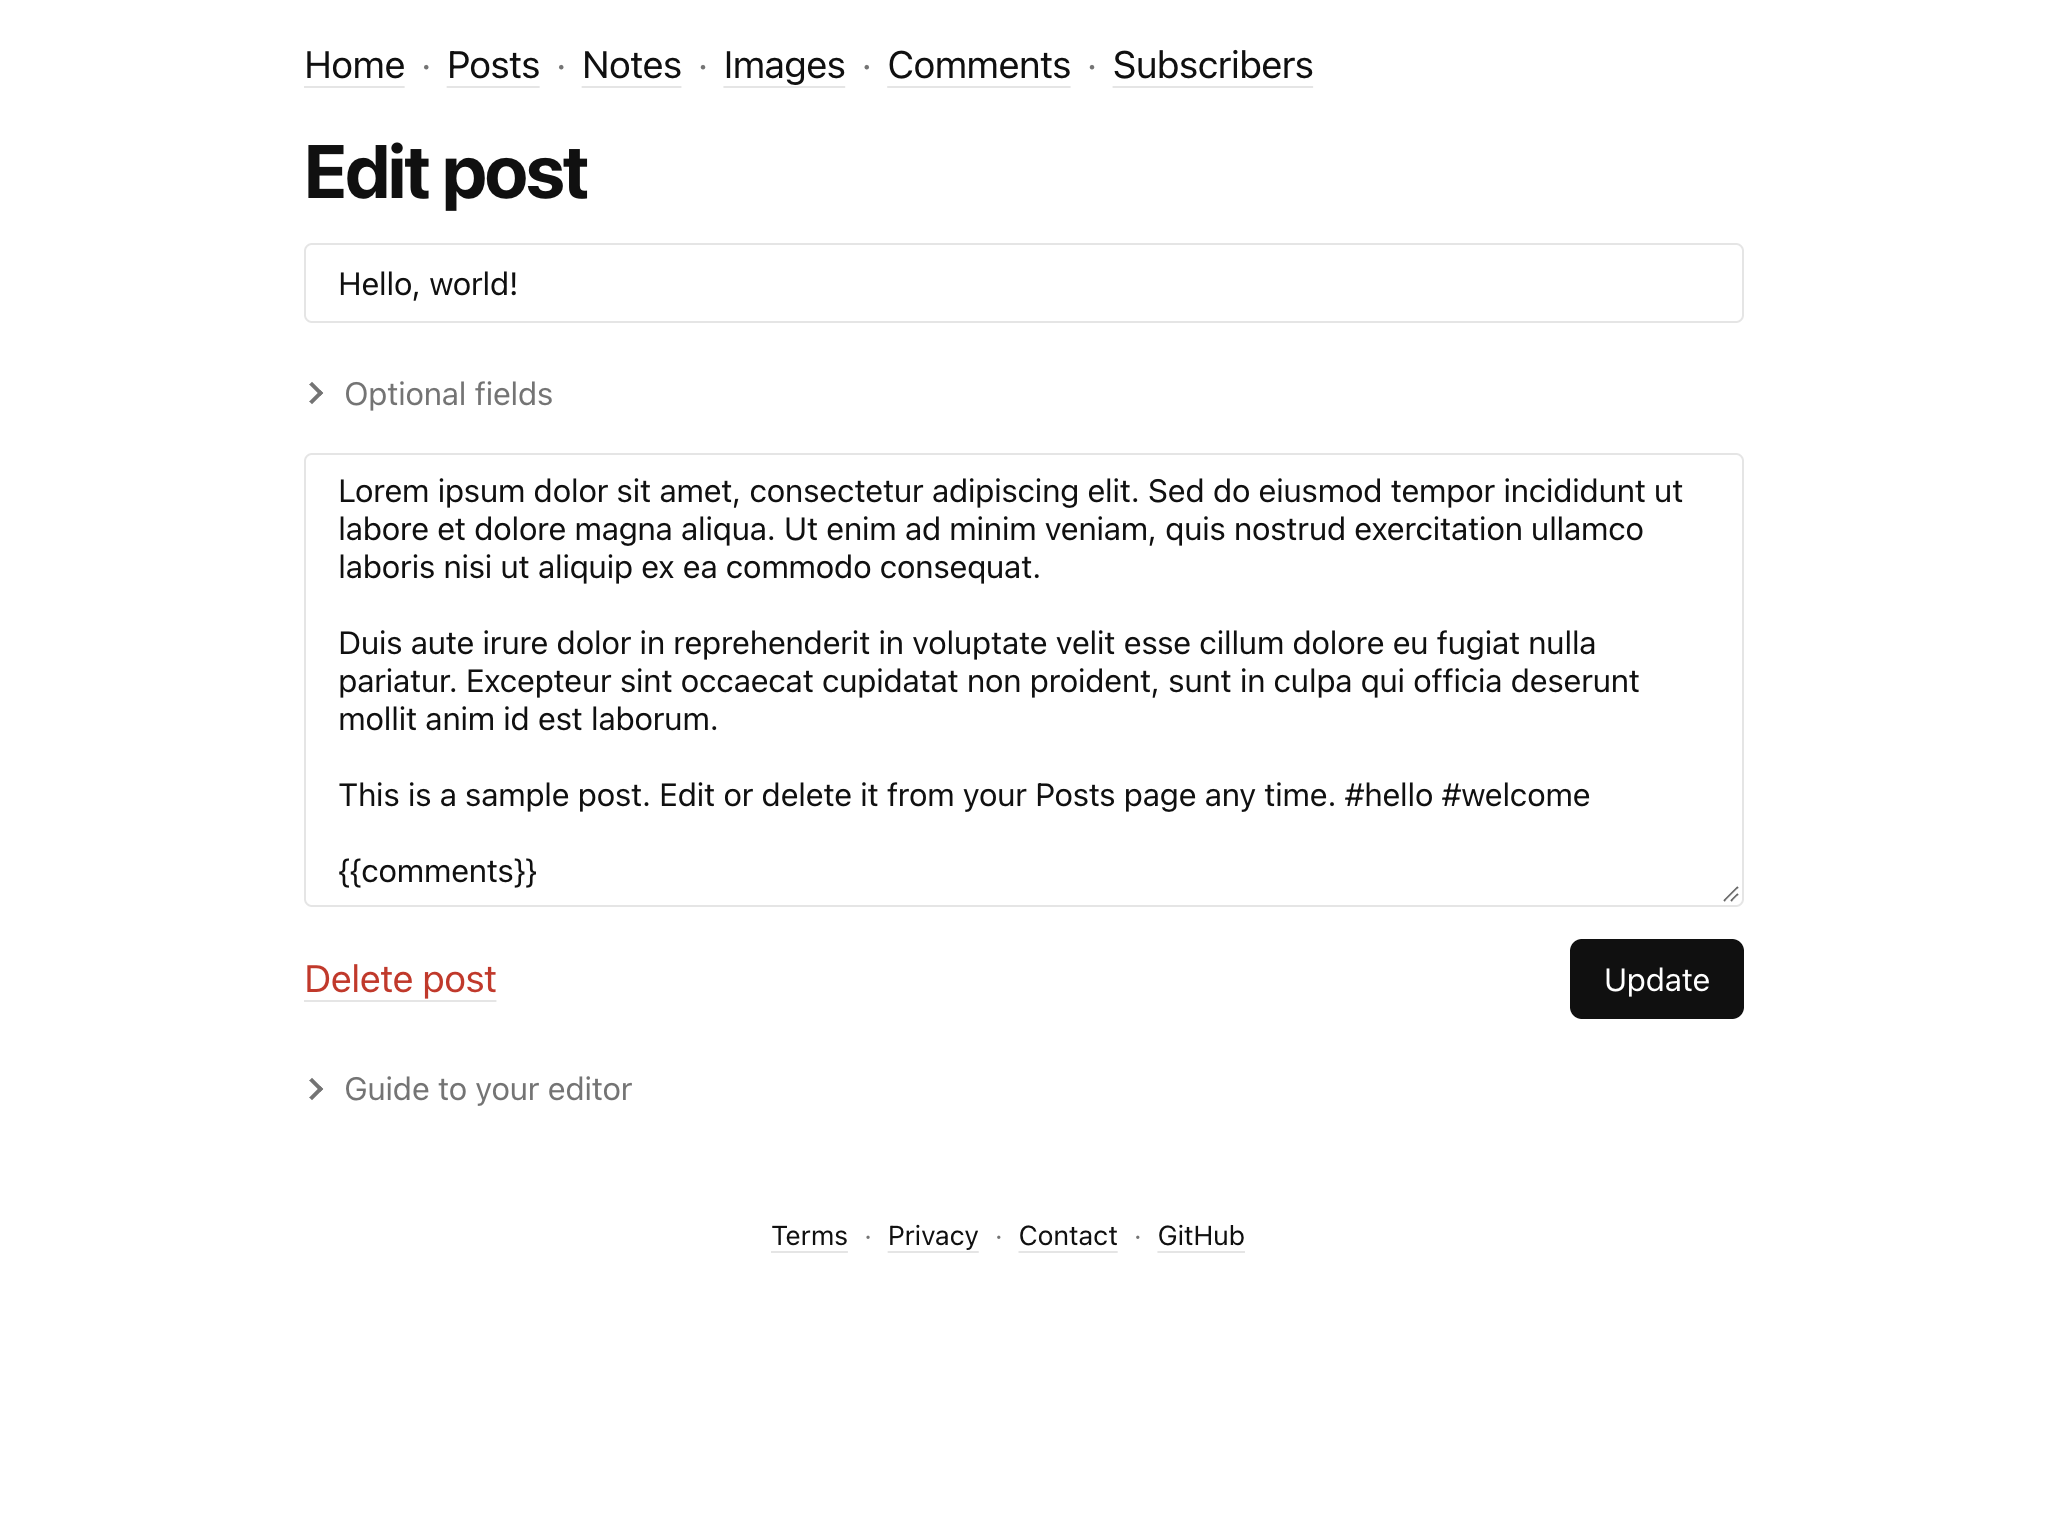
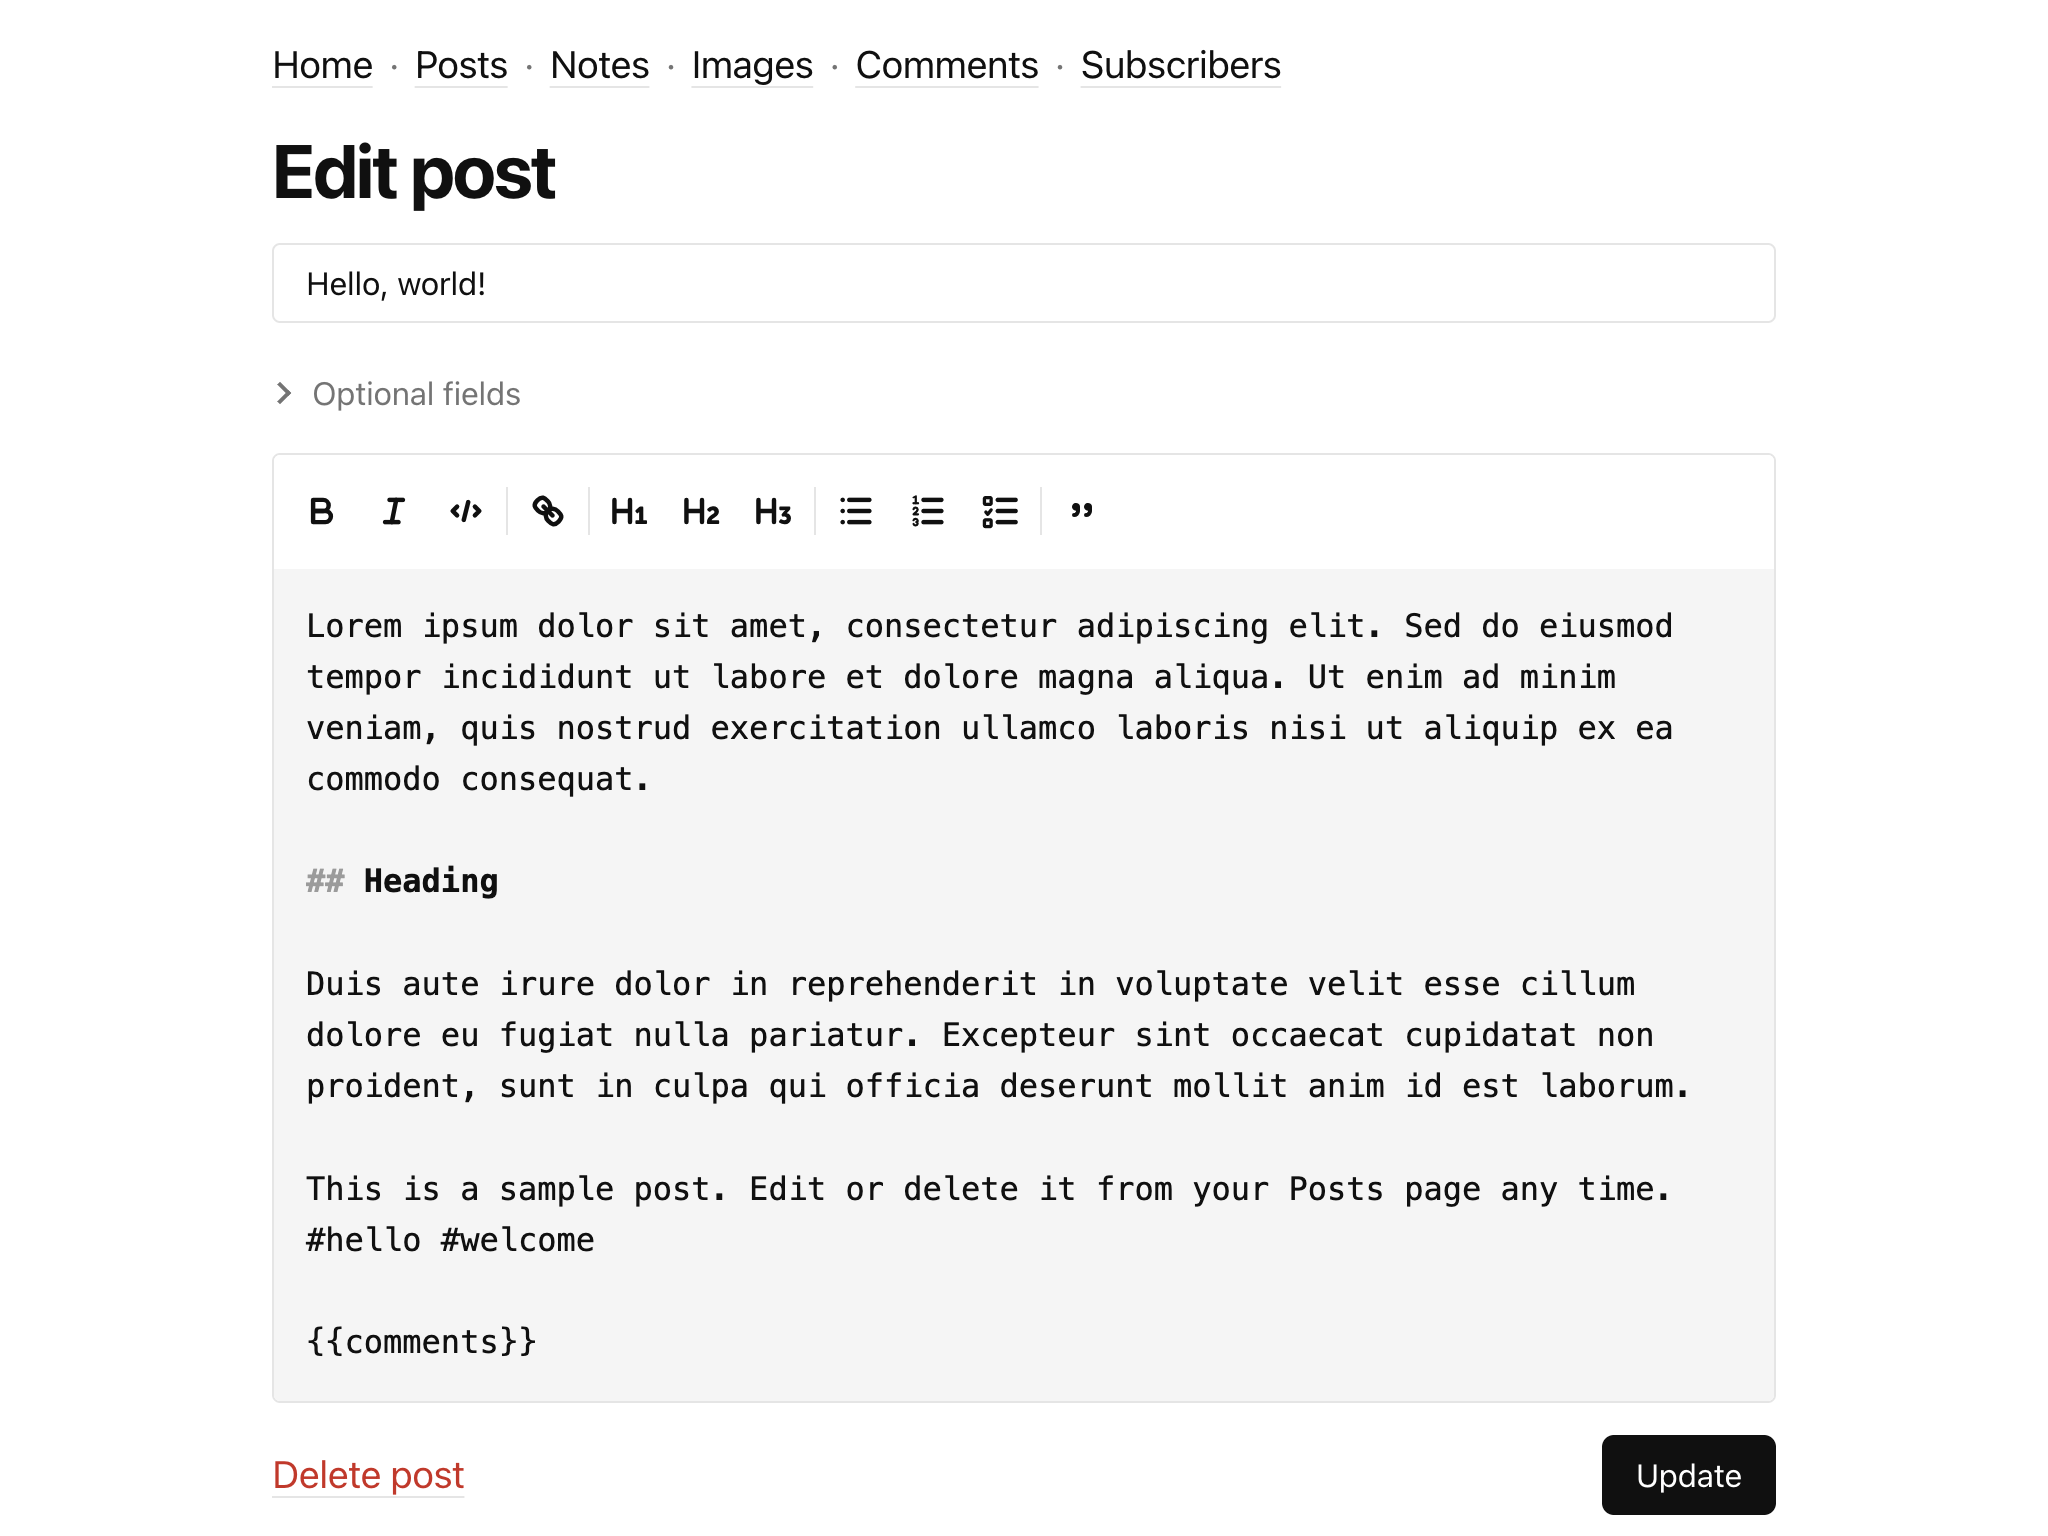
added markdown editor

diff --git a/assets/script.js b/assets/script.js
@@ -1,4 +1,4 @@
-/* global axios, Vue */
+/* global axios, Vue, OverType, defaultToolbarButtons */
 
 const defaultState = function () {
 	const params = new URLSearchParams(window.location.search);
@@ -31,7 +31,7 @@ function redirect(path, replace = false) {
 	if (replace) window.location.replace(path);
 	else window.location.href = path;
 }
-const App = Vue.createApp({
+const app = Vue.createApp({
 	data() {
 		return defaultState();
 	},
@@ -394,7 +394,63 @@ const App = Vue.createApp({
 				.finally(() => (this.isLoading = false));
 		},
 	},
-}).mount("#app");
+});
+
+// Markdown editor (overtype.dev) bound to a value. Emits an "overtype-change" event carrying the new markdown.
+app.directive("overtype", {
+	mounted(el, binding) {
+		const [editor] = new OverType(el, {
+			value: binding.value || "",
+			placeholder: el.dataset.placeholder || "",
+			toolbar: true,
+			// The default toolbar without the view-mode (eye) toggle, which confuses non-technical users.
+			toolbarButtons: defaultToolbarButtons.filter((button, i, all) => {
+				if (button.name === "viewMode") return false;
+				return !(button.name === "separator" && all[i + 1]?.name === "viewMode");
+			}),
+			autoResize: true,
+			minHeight: "7rem",
+			fontSize: "1rem",
+			theme: {
+				name: "veenew",
+				colors: {
+					bgPrimary: "var(--ot-background)",
+					bgSecondary: "var(--ot-shade)",
+					text: "var(--ot-text)",
+					h1: "var(--ot-text)",
+					h2: "var(--ot-text)",
+					h3: "var(--ot-text)",
+					strong: "var(--ot-text)",
+					em: "var(--ot-text)",
+					link: "var(--ot-text)",
+					code: "var(--ot-text)",
+					codeBg: "var(--ot-shade)",
+					blockquote: "var(--ot-muted)",
+					hr: "var(--ot-muted)",
+					syntaxMarker: "var(--ot-muted)",
+					cursor: "var(--ot-text)",
+					// The browser's own selection color, translucent so the styled text underneath stays visible.
+					selection: "color-mix(in srgb, Highlight 40%, transparent)",
+					toolbarBg: "var(--ot-background)",
+					toolbarIcon: "var(--ot-text)",
+					toolbarHover: "var(--ot-shade)",
+					toolbarActive: "var(--ot-grey)",
+					border: "var(--ot-grey)",
+				},
+			},
+			onChange: (value) => el.dispatchEvent(new CustomEvent("overtype-change", { detail: value })),
+		});
+		el._overtype = editor;
+	},
+	updated(el, binding) {
+		if (el._overtype && binding.value !== el._overtype.getValue()) el._overtype.setValue(binding.value || "");
+	},
+	unmounted(el) {
+		el._overtype?.destroy();
+	},
+});
+
+const App = app.mount("#app");
 
 (() => {
 	const csrfToken = document.cookie

diff --git a/server/utils/marked.js b/server/utils/marked.js
@@ -45,6 +45,17 @@ renderer.text = function (text) {
 	return result;
 };
 
+/**
+ * Renders task list checkboxes without the disabled attribute, which browsers grey out,
+ * so readers can tick them. The state is not saved.
+ * @param {boolean|object} checked - Checked state or marked token.
+ * @returns {string} Checkbox input markup.
+ */
+renderer.checkbox = function (checked) {
+	const isChecked = typeof checked === "object" && checked !== null ? checked.checked : checked;
+	return `<input type="checkbox" class="task-checkbox"${isChecked ? " checked" : ""}> `;
+};
+
 marked.setOptions({ renderer });
 
 module.exports = marked;

diff --git a/init.js b/init.js
@@ -27,9 +27,10 @@ app.locals.toScriptJson = toScriptJson;
 
 app.use(mw.securityHeaders);
 
-// Serve vue.js & axios to the browser
+// Serve vue.js, axios & overtype to the browser
 app.use(express.static(path.join(__dirname, "node_modules/axios/dist/")));
 app.use(express.static(path.join(__dirname, "node_modules/vue/dist/")));
+app.use(express.static(path.join(__dirname, "node_modules/overtype/dist/")));
 
 // A blog's uploaded favicon takes over /favicon.png on its own domain, ahead of the static default below.
 app.get("/favicon.png", serveFavicon);

diff --git a/assets/style.css b/assets/style.css
@@ -21,6 +21,19 @@
 #postbox textarea {
 	min-height: 7rem;
 }
+.editor {
+	--ot-background: var(--background);
+	--ot-shade: var(--shade);
+	--ot-text: var(--text);
+	--ot-muted: var(--muted);
+	--ot-grey: var(--grey);
+	border: 1px solid var(--grey);
+	border-radius: 0.25rem;
+	overflow: hidden;
+}
+.editor:focus-within {
+	border-color: var(--text);
+}
 #loader {
 	position: relative;
 }

diff --git a/assets/common.css b/assets/common.css
@@ -220,6 +220,11 @@ label:has(> input[type="checkbox"]) {
 	line-height: 1.4;
 	cursor: pointer;
 }
+.task-checkbox {
+	margin-right: 0.25rem;
+	cursor: pointer;
+	vertical-align: middle;
+}
 input:disabled {
 	background-color: var(--grey);
 	cursor: not-allowed;
